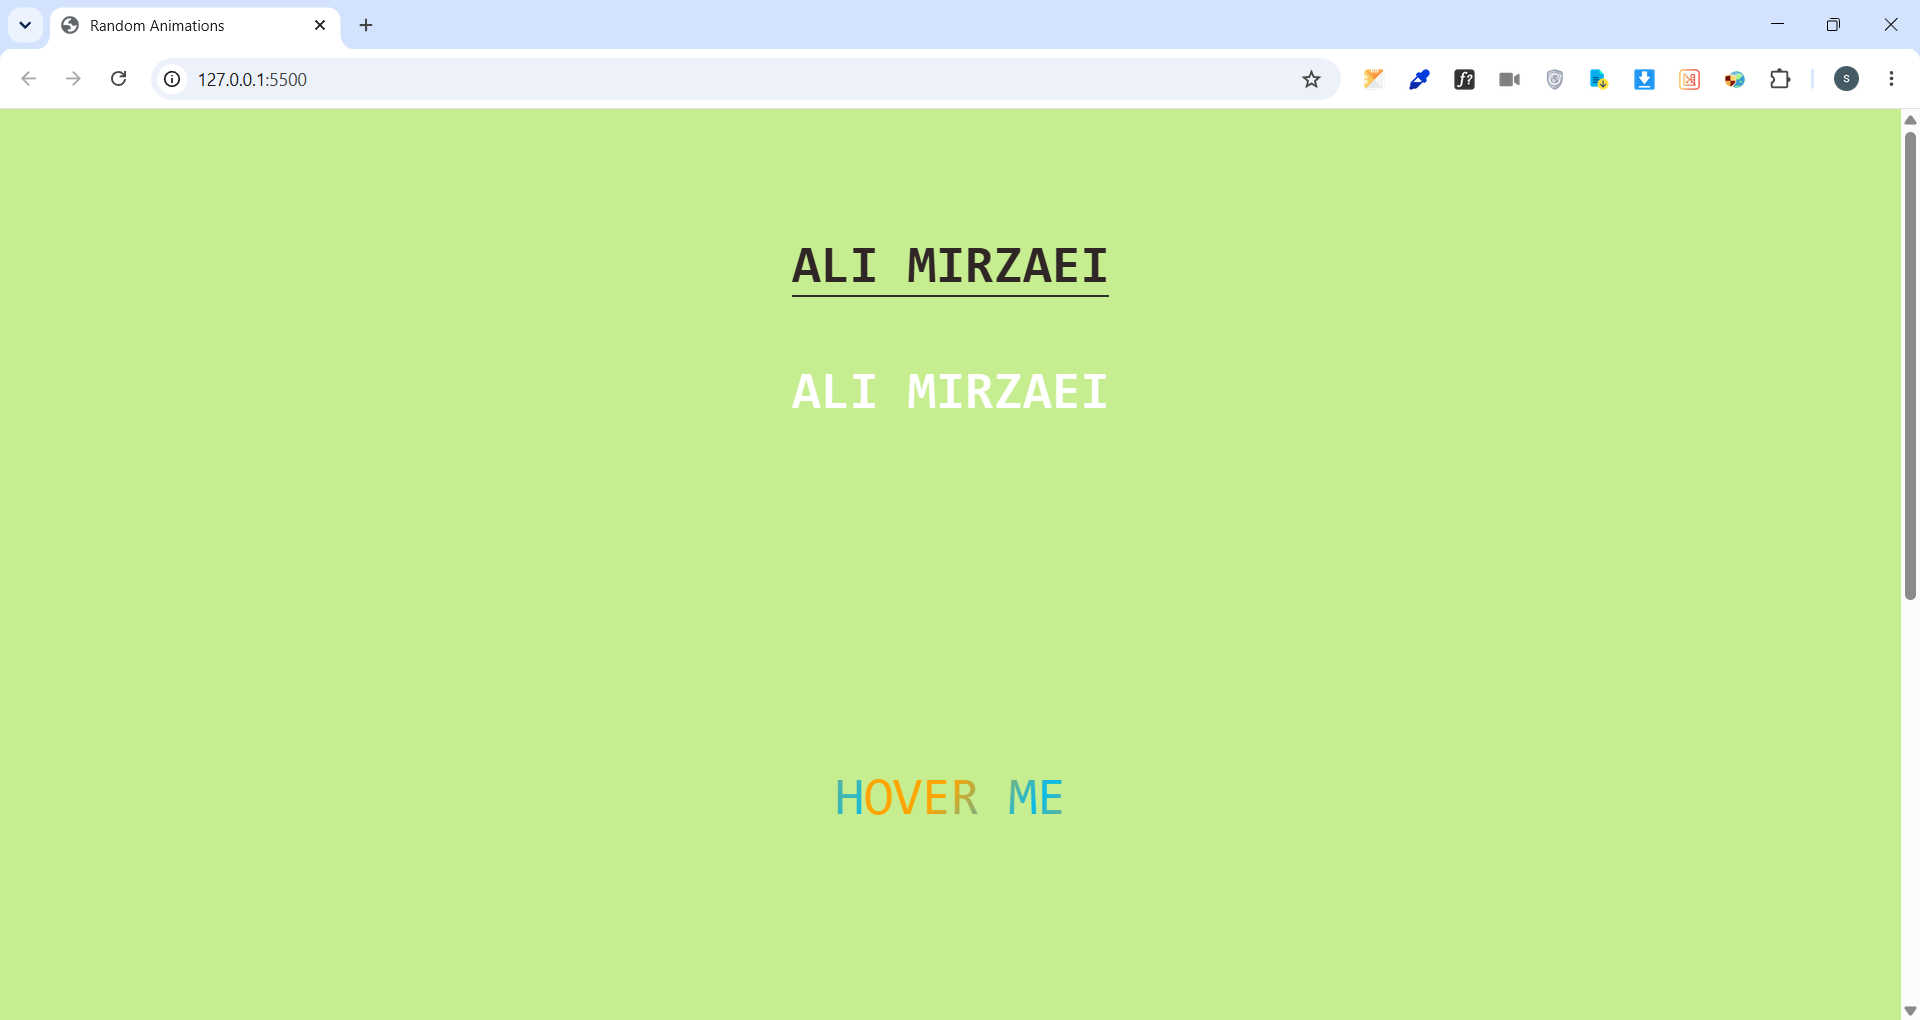
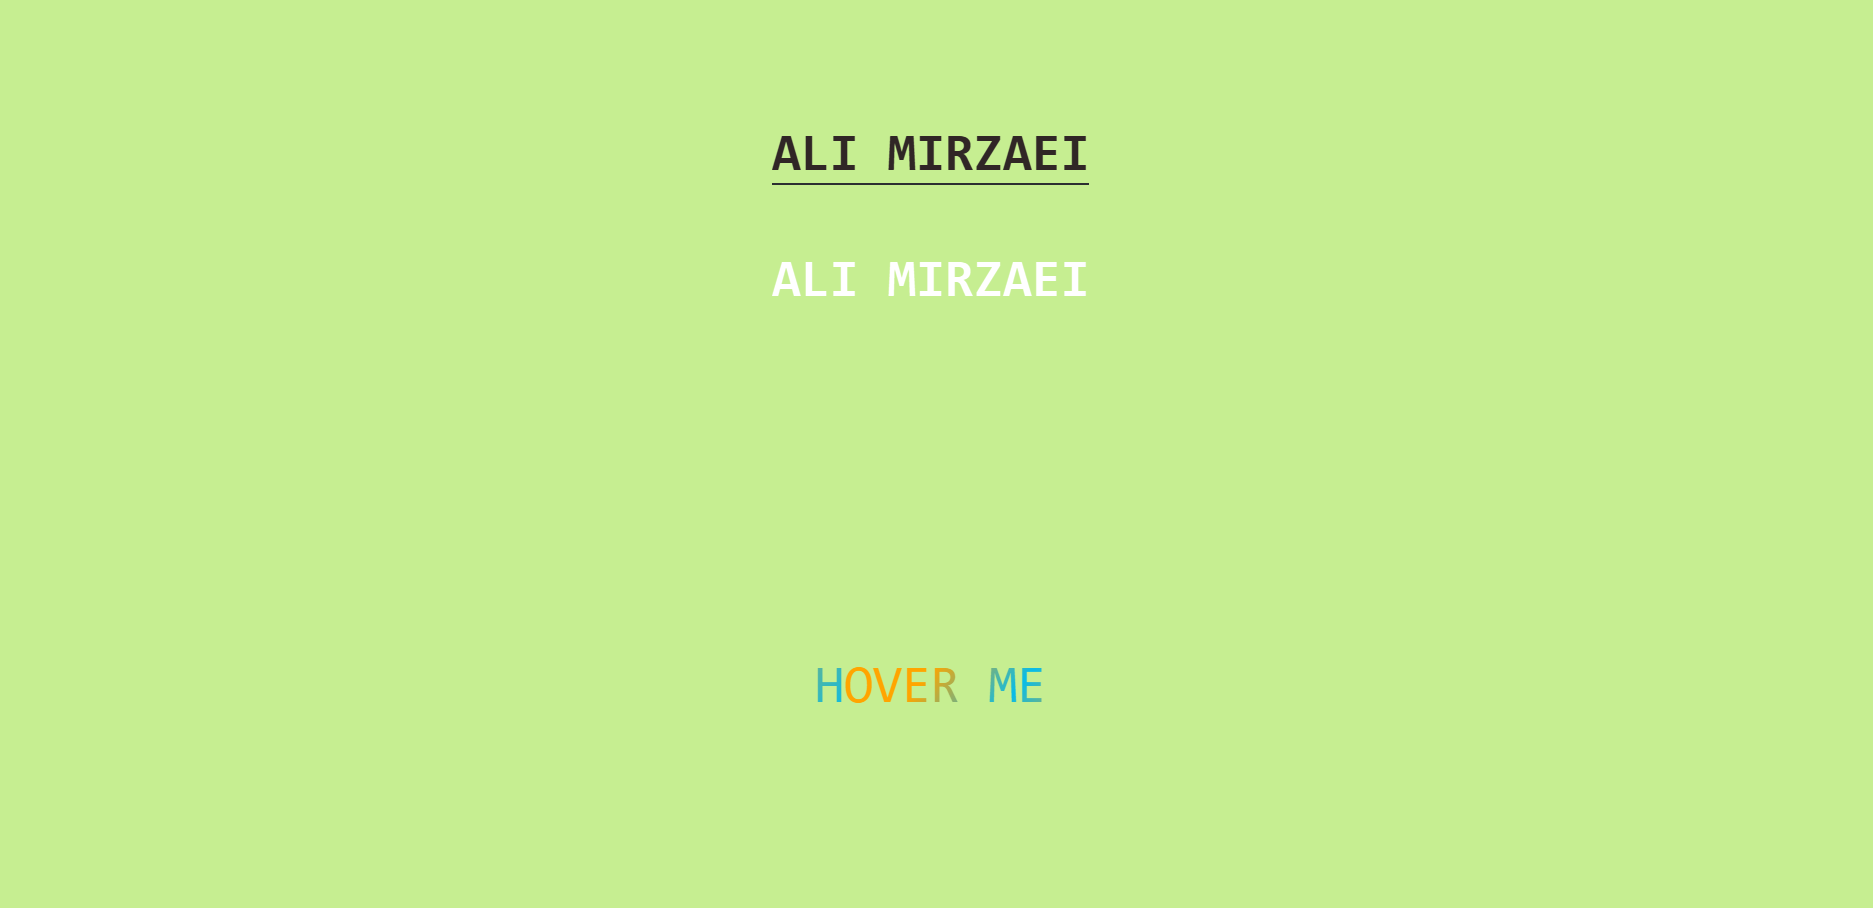
Update the homepage with a new trick

Changed region(s): [[0.0, 0.0, 1.0, 1.0], [0.4335, 0.7401, 0.5574, 0.8018], [0.4026, 0.37, 0.5884, 0.4009]]

diff --git a/index.html b/index.html
@@ -386,6 +386,15 @@
                                     </figcaption>
                                 </figure>
                             </a>
+                            <a title="visit Random-Animations " href="Random-Animations/index.html">
+                                <figure>
+                                    <img src="assets/Images/Random-Animations.png" alt="Random-Animations">
+                                    <figcaption>
+                                        <p>Random Animations</p>
+                                        <span>8</span>
+                                    </figcaption>
+                                </figure>
+                            </a>
 
                         </div>
                     </div>
@@ -650,7 +659,16 @@
                             </figcaption>
                         </figure>
                     </a>
-
+                    <a title="visit Random-Animations " href="Random-Animations/index.html">
+                        <figure>
+                            <img src="assets/Images/Random-Animations.png" alt="Random-Animations">
+                            <figcaption>
+                                <p>Random Animations</p>
+                                <p>A collection of some animations</p>
+                                <span>added:14 aug 2026</span>
+                            </figcaption>
+                        </figure>
+                    </a>
                     <!--=========================================================-->
                     <!--=========================================================-->
                     <!--=========================================================-->
